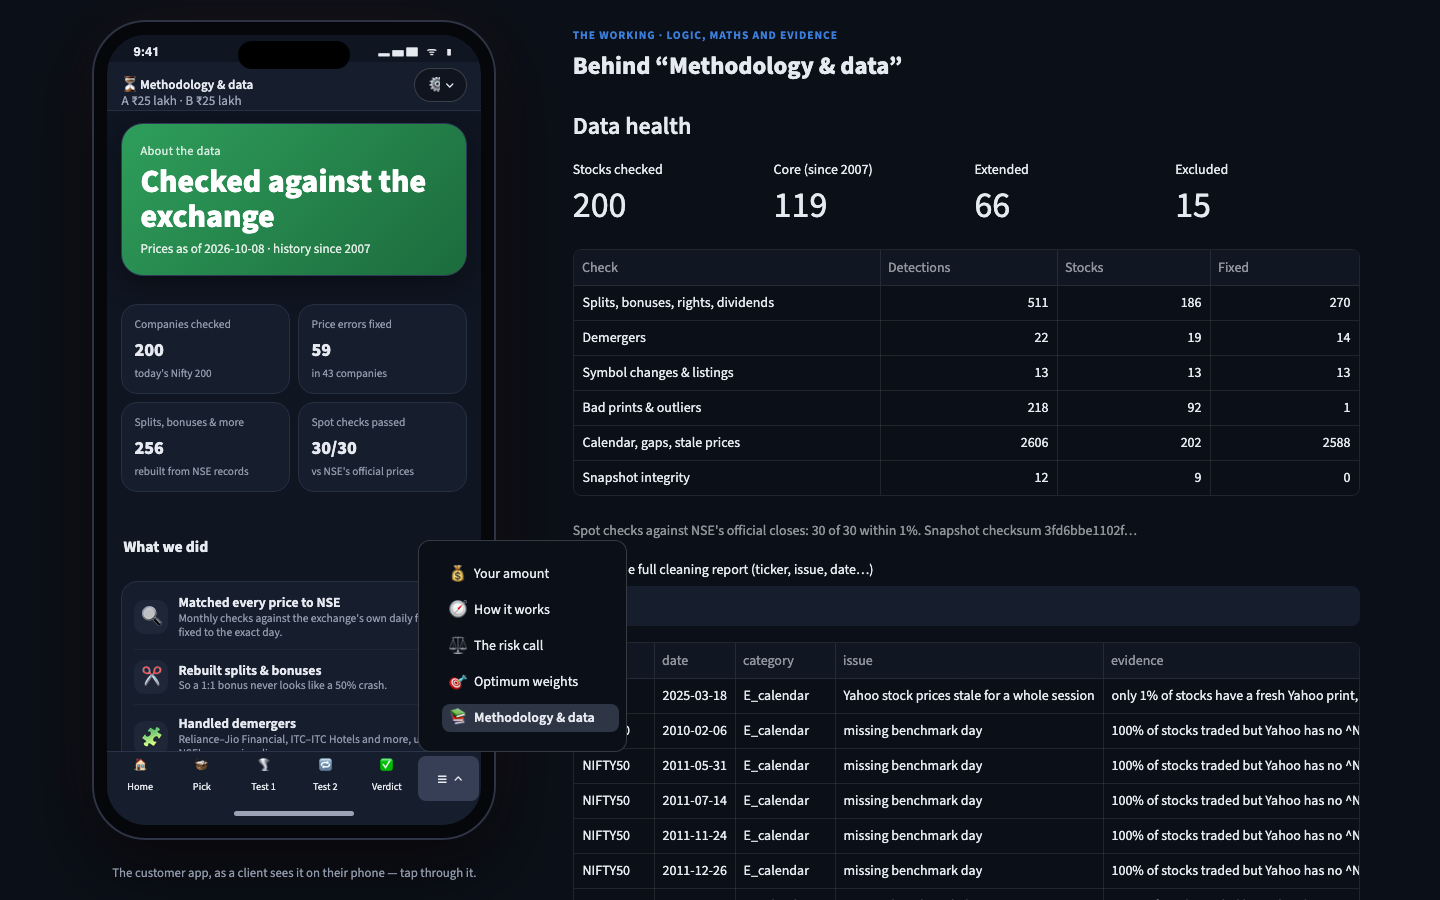
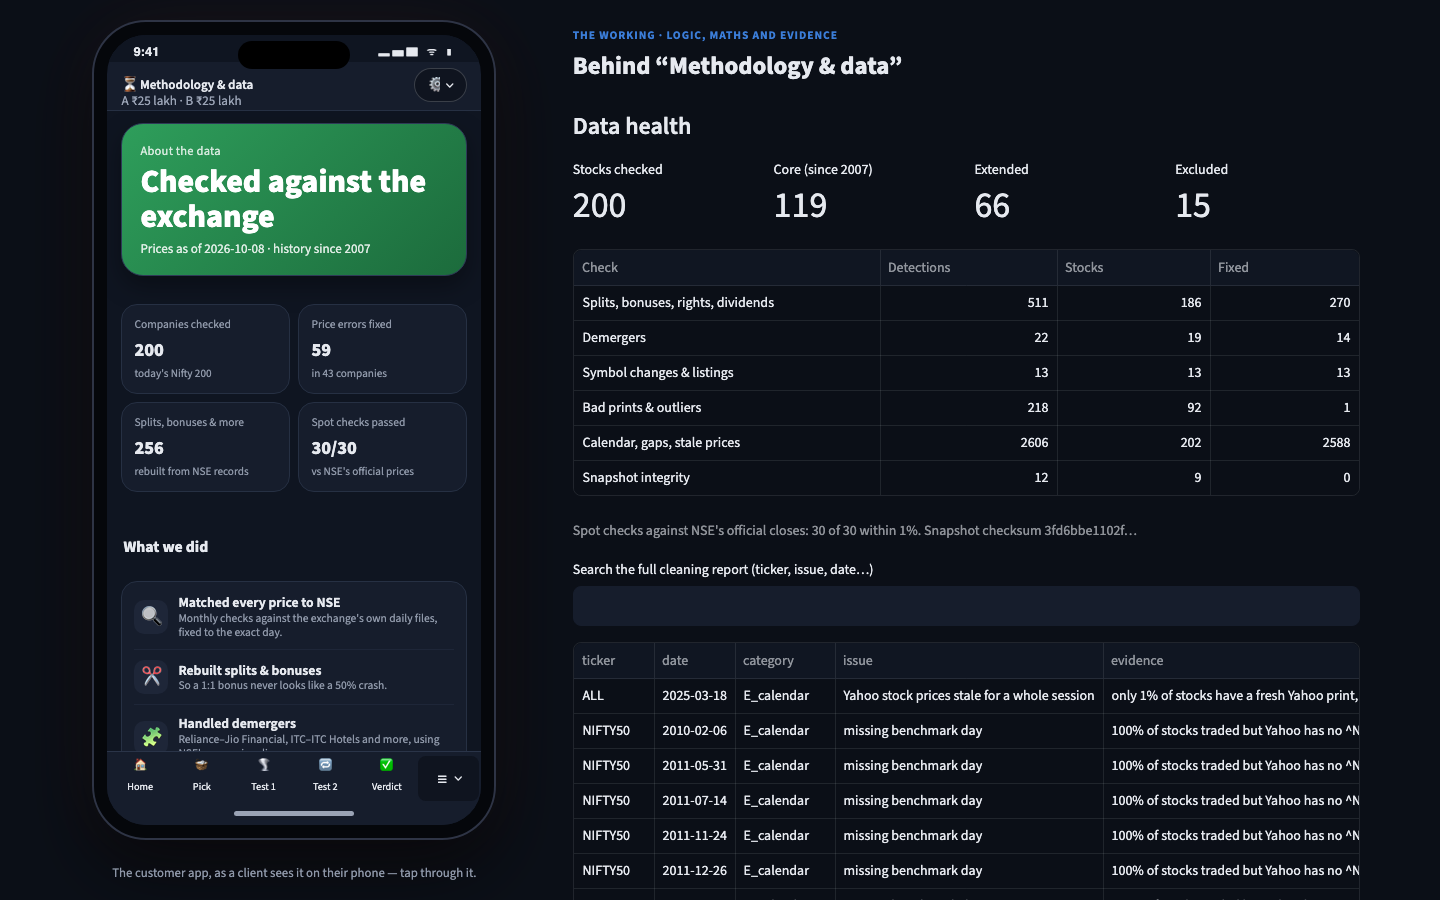
Real-phone detection via reload, per-page menus, frame-free CSS fallback, README and screenshots for the virtual-phone layout

Changed region(s): [[0.2812, 0.6222, 0.4375, 0.9022], [0.4062, 0.6222, 0.4375, 0.6533]]

diff --git a/site_src/app/index.html b/site_src/app/index.html
@@ -35,30 +35,34 @@
     const files = {{FILES}};
     // Phones get the app-style layout: tell the Python side through the query string before Streamlit starts.
     const u = new URL(window.location.href);
-    if (window.innerWidth < 768 && !u.searchParams.has("phone")) { u.searchParams.set("phone", "1"); history.replaceState(null, "", u); }
-    const t0 = performance.now();
-    window.__ptmBoot = { start: t0 };
-    mount({
-      requirements: {{REQUIREMENTS}},
-      entrypoint: "app.py",
-      files,
-      streamlitConfig: {{CONFIG}},
-    }, document.getElementById("root"));
-    const steps = ["Downloading Python…", "Installing pandas, NumPy, SciPy and Plotly…", "Loading the data snapshot…", "Almost there…"];
-    let i = 0;
-    const ticker = setInterval(() => { i = Math.min(i + 1, steps.length - 1); document.getElementById("ptm-step").textContent = steps[i]; }, 6000);
-    setTimeout(() => { document.getElementById("ptm-err").style.display = "block"; }, 90000);
-    const ready = () => document.querySelector('[data-testid="stMarkdownContainer"], [data-testid="stHeading"], [data-testid="stException"], [data-testid="stAlert"]');
-    const obs = new MutationObserver(() => {
-      if (ready()) {
-        document.getElementById("ptm-loading").remove();
-        window.__ptmBoot.ready = performance.now() - t0;
-        console.log("PTM ready in", Math.round(window.__ptmBoot.ready), "ms");
-        clearInterval(ticker);
-        obs.disconnect();
-      }
-    });
-    obs.observe(document.body, { childList: true, subtree: true });
+    if (window.innerWidth < 768 && !u.searchParams.has("phone")) {
+      u.searchParams.set("phone", "1");
+      window.location.replace(u.toString());  // reload once, before Python starts, so the app knows it is on a phone
+    } else {
+      const t0 = performance.now();
+      window.__ptmBoot = { start: t0 };
+      mount({
+        requirements: {{REQUIREMENTS}},
+        entrypoint: "app.py",
+        files,
+        streamlitConfig: {{CONFIG}},
+      }, document.getElementById("root"));
+      const steps = ["Downloading Python…", "Installing pandas, NumPy, SciPy and Plotly…", "Loading the data snapshot…", "Almost there…"];
+      let i = 0;
+      const ticker = setInterval(() => { i = Math.min(i + 1, steps.length - 1); document.getElementById("ptm-step").textContent = steps[i]; }, 6000);
+      setTimeout(() => { document.getElementById("ptm-err").style.display = "block"; }, 90000);
+      const ready = () => document.querySelector('[data-testid="stMarkdownContainer"], [data-testid="stHeading"], [data-testid="stException"], [data-testid="stAlert"]');
+      const obs = new MutationObserver(() => {
+        if (ready()) {
+          document.getElementById("ptm-loading").remove();
+          window.__ptmBoot.ready = performance.now() - t0;
+          console.log("PTM ready in", Math.round(window.__ptmBoot.ready), "ms");
+          clearInterval(ticker);
+          obs.disconnect();
+        }
+      });
+      obs.observe(document.body, { childList: true, subtree: true });
+    }
   </script>
 </body>
 </html>

diff --git a/src/ui.py b/src/ui.py
@@ -529,6 +529,11 @@ DEVICE_CSS = """
 @media (max-width: 900px) {
   .st-key-ptm_stage > div > [data-testid="stColumn"]:first-child { position: static; }
 }
+@media (max-width: 520px) {  /* a real phone that slipped through detection: drop the device frame */
+  .st-key-ptm_phone { width: 100%; border: 0; border-radius: 0; box-shadow: none; }
+  .ptm-status, .ptm-homebar, .ptm-caption-phone { display: none; }
+  .block-container { padding-left: .5rem !important; padding-right: .5rem !important; }
+}
 </style>
 """
 
@@ -583,15 +588,17 @@ def _app_bar(page_title: str, controls) -> None:
         right_txt = f"A {inr_short(a)} · B {inr_short(b)}" if st.session_state["amount_confirmed"] else "Portfolio Time Machine"
         st.markdown(f"**⏳ {page_title.split(' — ')[0]}**  \n<span style='color:#9AA3B5'>{right_txt}</span>",
                     unsafe_allow_html=True)
-        with st.popover("⚙", width="content", help="Settings: amount, events, confidence, horizon"):
+        with st.popover("⚙", width="content", help="Settings: amount, events, confidence, horizon",
+                        key=f"ptm_settings_{page_title}"):
             controls()
 
 
-def _tab_bar(pages: dict) -> None:
+def _tab_bar(pages: dict, page_title: str = "") -> None:
     with st.container(key="ptm_tabs", horizontal=True):
         for key, icon, label in TABS:
             st.page_link(pages[key], label=label, icon=icon)
-        with st.popover("☰", width="stretch", help="More pages"):
+        # a fresh key on every page, so the menu is closed after you navigate
+        with st.popover("☰", width="stretch", help="More pages", key=f"ptm_more_{page_title}"):
             for key, icon, label in MORE:
                 st.page_link(pages[key], label=label, icon=icon)
 
@@ -610,7 +617,7 @@ def setup_frames(pages: dict, page_title: str, controls) -> None:
         client = st.container()
         working = st.expander("📐 The working — logic, maths and evidence") if s.get("show_backing", True) else None
         if confirmed:
-            _tab_bar(pages)
+            _tab_bar(pages, page_title)
         s["_frames"] = {"client": client, "working": working}
         return
     st.html(DEVICE_CSS)
@@ -624,7 +631,7 @@ def setup_frames(pages: dict, page_title: str, controls) -> None:
                 _app_bar(page_title, controls)
                 screen = st.container(key="ptm_screen", height=640, border=False)
                 if confirmed:
-                    _tab_bar(pages)
+                    _tab_bar(pages, page_title)
                 st.html("<div class='ptm-homebar'><span></span></div>")
             st.html("<div class='ptm-caption-phone'>The customer app, as a client sees it on their phone — tap through it.</div>")
         working = None

diff --git a/README.md b/README.md
@@ -10,9 +10,9 @@
 * **Time-travel test #1:** Value at Risk and Expected Shortfall (four methods) for both, in a historical crisis, a calm spell and today — did the labels hold?
 * **Time-travel test #2:** re-run Markowitz with each period's data for today's target return — would the optimiser still pick our weights, or is the difference just estimation noise?
 
-Everything is shown in rupees on the amount you choose, with the maths alongside ("The Backing"). It works on a phone like an app.
+**How it looks.** On a computer, the left half is a **virtual phone running the customer app** — onboarding, portfolio cards, a shopping list of shares, a crash replay, a "which portfolio fits me?" slider — in plain words and rupees. The right half is **"The working"**: the formulas, tables, charts and evidence behind whichever screen the phone is on. On a real phone the same app fills the screen, with the working one tap away. Dark theme throughout.
 
-| Home (desktop) | Test #1 (desktop) | Phone |
+| Desktop: virtual phone + the working | Test #1 on desktop | On a real phone |
 |---|---|---|
 | ![Home](docs/screenshots/desktop_01_home.png) | ![Test 1](docs/screenshots/desktop_06_test1.png) | ![Phone](docs/screenshots/phone_01_home.png) |
 
